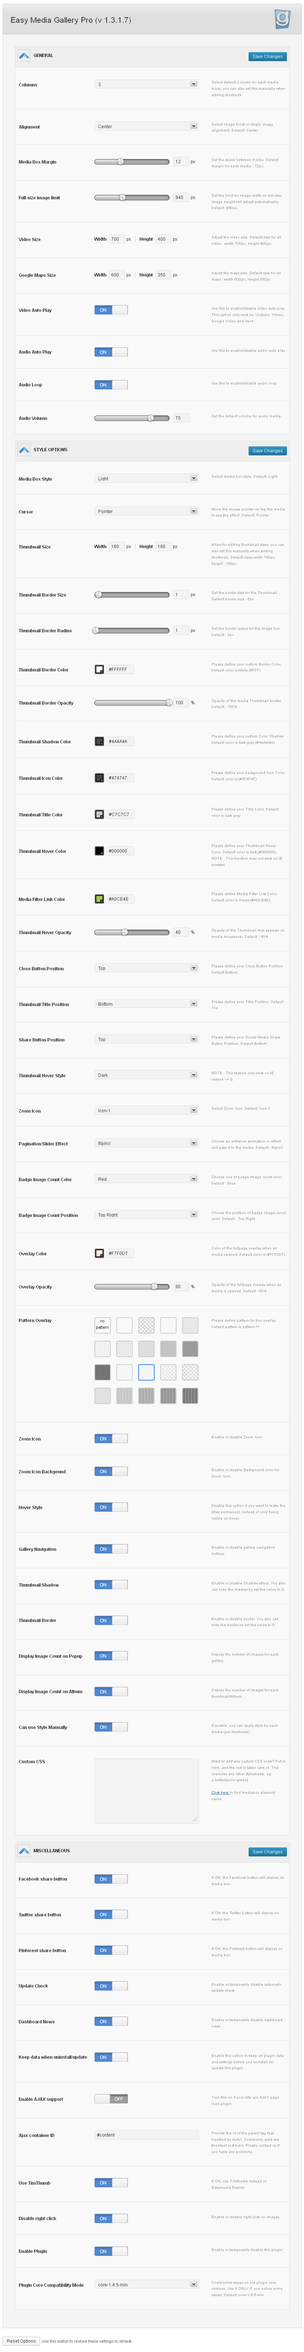
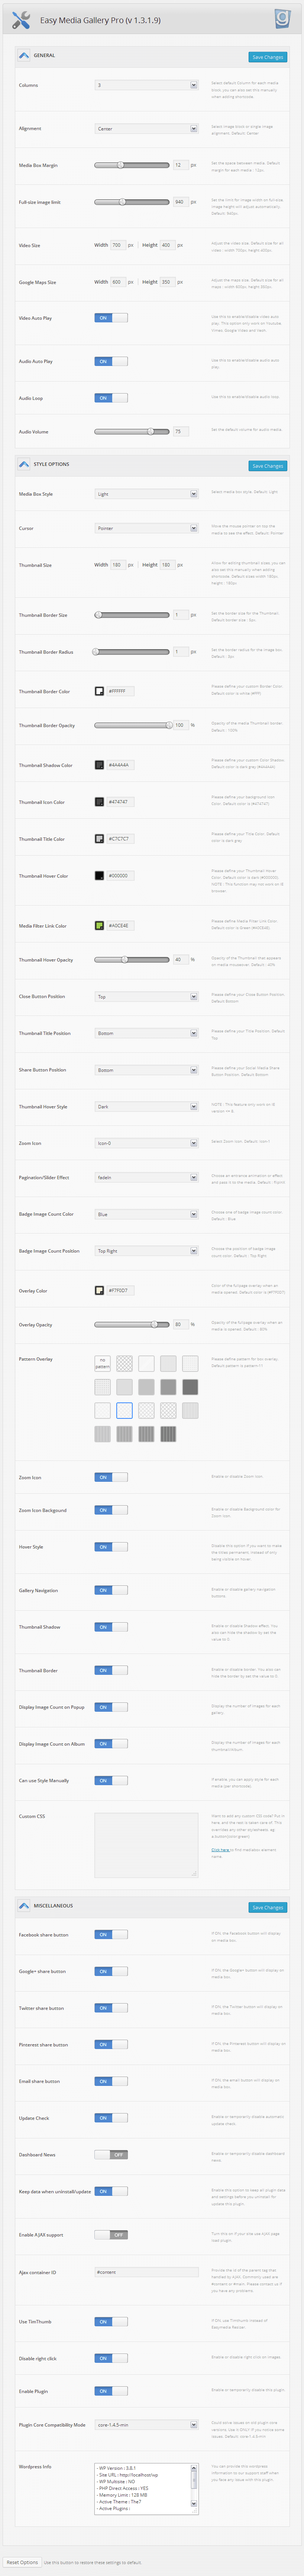
update CP, Metabox & admin style
git-svn-id: https://plugins.svn.wordpress.org/easy-media-gallery/tags/1.2.29@854833 b8457f37-d9ea-0310-8a92-e5e31aec5664

diff --git a/includes/css/admin.css b/includes/css/admin.css
@@ -107,6 +107,18 @@ padding: 4% ;
 	margin:10px 20px;
 }
 
+#spg_container #header .icon-option-left {
+	float: left;
+	height: 60px;
+	width: 60px;
+	background: url(../images/left-cp-icon.png) no-repeat;
+	margin:0 20px 0 0;
+}
+
+#spg_container #header .emg-cp-title {
+	width:450px;
+}
+
 #mask {
   position:absolute;
   left:0;
@@ -406,8 +418,8 @@ ul.easymedia-social li.easymedia-pinterest { background-image:url("../images/soc
 	float: right;
 	border: 1px solid #14496d; 
 	font-size: 14px;
-	margin: 10px;
-	padding: 12px 0;
+	margin: 12px;
+	padding: 9px 0;
 	color: #FFF;
 	text-shadow: 0 1px 3px #2483c5;
 	font-weight: bold;
@@ -416,9 +428,9 @@ ul.easymedia-social li.easymedia-pinterest { background-image:url("../images/soc
 	border-radius: 3px;
 	-webkit-border-radius: 3px;
 	text-decoration: none;
-	height: 50px;
+	height: 45px;
 	text-align: center;
-	width: 147px;
+	width: 135px;
 	-moz-box-shadow: 0px 1px 1px 0 #3e7aa3 inset;
 	-webkit-box-shadow: 0px 1px 1px 0 #3e7aa3 inset;
 	box-shadow: 0px 1px 1px 0 #3e7aa3 inset;

diff --git a/includes/metaboxes.php b/includes/metaboxes.php
@@ -534,7 +534,7 @@ function easmedia_metabox_work(){
 	    $meta_box = array(
 		'id' => 'easmedia_metaboxmediatypeselect',
 		'title' =>  __( 'Media Options', 'easmedia' ),
-		'description' => __( '<div class="emginfobox">Upgrade to PRO and you can select Image Gallery, Grid Gallery, Photo Albums, Filterable Media, HTML5 Video/Audio, Google Maps/Street View, embed from Soundcloud or Reverbnation and also Link to specific URL. You can learn more and see version comparison <a href="edit.php?post_type=easymediagallery&page=comparison">here</a> or go to Pro Version DEMO <a href="http://ghozylab.com/best-wordpress-grid-gallery-and-grid-portfolio-plugin/" target="_blank">here</a></div><br>Select videos, images, gallery or audio files.', 'easmedia' ),
+		'description' => __( '<div class="emginfobox">Upgrade to PRO and you can select <a href="http://ghozylab.com/best-wordpress-grid-gallery-and-grid-portfolio-plugin/" target="_blank">Grid Gallery</a>, <a href="http://ghozylab.com/best-photo-albums-wordpress-plugin/" target="_blank">Photo Albums</a>, <a href="http://ghozylab.com/wordpress-filterable-gallery-and-filterable-media-plugin/" target="_blank">Filterable Media</a>, HTML5 Video/Audio, Google Maps/Street View, embed from Soundcloud or Reverbnation and also Link to specific URL. You can learn more and see version comparison <a href="edit.php?post_type=easymediagallery&page=comparison">here</a> or go to Pro Version DEMO <a href="http://ghozylab.com/best-wordpress-grid-gallery-and-grid-portfolio-plugin/" target="_blank">here</a></div><br>Select videos, images, gallery or audio files.', 'easmedia' ),
 		'page' => 'easymediagallery',
 		'context' => 'normal',
 		'priority' => 'default',

diff --git a/includes/functions/functions.php b/includes/functions/functions.php
@@ -764,7 +764,7 @@ function easymedia_comparison() {
         <li class="row_style_4"><span>Audio Media</span></li>
         <li class="row_style_2"><span>HTML5 Video/Audio (mp4, webm, ogv)</span></li>   
         <li class="row_style_4"><span>Auto Fetch Youtube/Vimeo Thumbnail</span><span class="newftr"></span></li>    
-        <li class="row_style_2"><span>Photo Albums</span><a target="_blank" href="http://ghozylab.com/best-photo-albums-wordpress-plugin/" style="text-decoration:underline !important;"> Click for Sample</a></li>                 
+        <li class="row_style_2"><span>Photo Albums</span><a target="_blank" href="http://ghozylab.com/best-photo-albums-wordpress-plugin/" style="text-decoration:underline !important;"> Click for Sample</a>&nbsp;&nbsp;<span class="newftr"></span></li>                 
         <li class="row_style_4"><span>Image Slider</span><a target="_blank" href="http://ghozylab.com/wordpress-image-slider-and-media-slider-plugin/" style="text-decoration:underline !important;"> Click for Sample</a>&nbsp;&nbsp;<span class="newftr"></span></li>
         <li class="row_style_2"><span>Grid Gallery</span><a target="_blank" href="http://ghozylab.com/best-wordpress-grid-gallery-and-grid-portfolio-plugin/" style="text-decoration:underline !important;"> Click for Sample</a></li>  
          <li class="row_style_4"><span>Filterable Media</span><a target="_blank" href="http://ghozylab.com/wordpress-filterable-gallery-and-filterable-media-plugin/" style="text-decoration:underline !important;"> Click for Sample</a></li>                     

diff --git a/includes/options.php b/includes/options.php
@@ -51,7 +51,7 @@ array( "name" => "Video Size",
 	"pixopr" => "px"),
 	
 array( "name" => "Video Auto Play",
-	"desc" => "Use this to enable/disable video auto play. This feature only work on MP4, M4V, Youtube, Vimeo, Google Video and Veoh.",
+	"desc" => "Use this to enable/disable video auto play. This feature only work on MP4, M4V, Youtube, Vimeo, Google Video and Veoh.<br><br><a target='_blank' href='http://ghozylab.com/pricing/'>Upgrade</a> to PRO and get HTML5 video player.",
 	"id" => $theshort."_disen_autoplv",
 	"type" => "checkbox",
 	"std" => "1"),		

diff --git a/includes/emg-settings.php b/includes/emg-settings.php
@@ -291,7 +291,8 @@ if ( isset( $_REQUEST['reset'] ) ) { echo '<script type="text/javascript">
 <div id="spg_container">
     <div id="header">
       <div class="logo">
-        <h2><?php echo $emgplugname . "  LITE (v " . easymedia_get_plugin_version() . ")"; ?></h2>
+      <div class="icon-option-left"></div>
+        <div class="emg-cp-title"><h2><?php echo $emgplugname . "  LITE (v " . easymedia_get_plugin_version() . ")"; ?></h2></div>
       </div>
       <div class="icon-option"> </div>
       <div style="clear: both;"></div>
